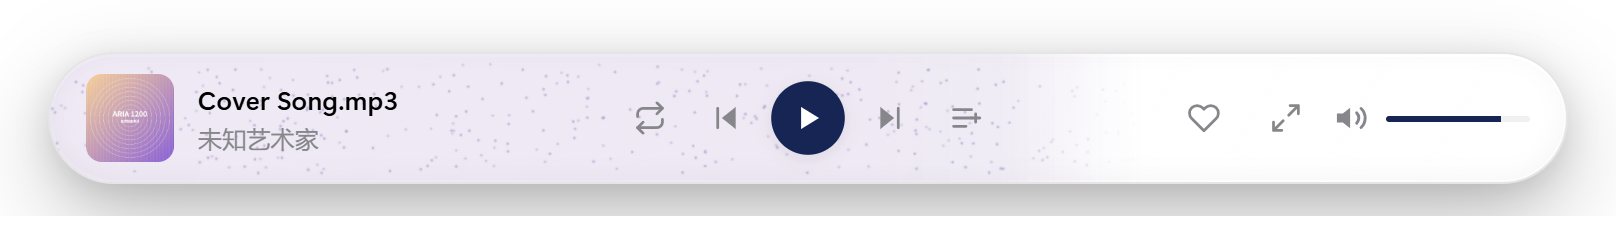
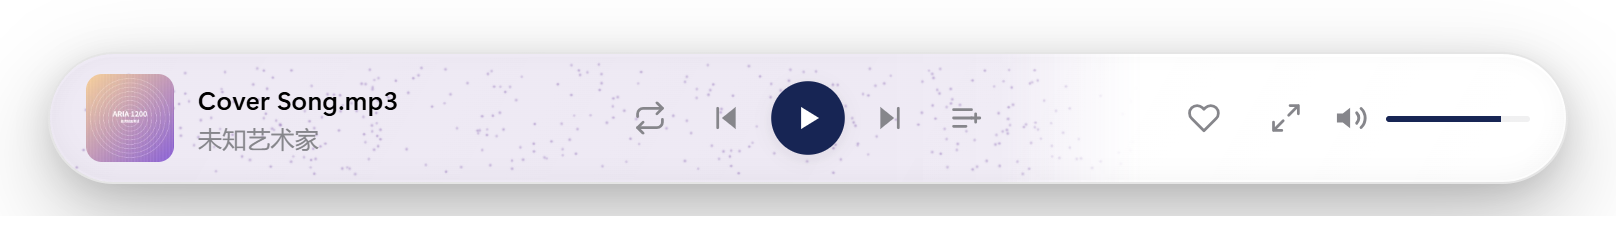
feat: 光尘改定向流动 + 拖拽只在顶端边框生效（加 4px 位移门槛防误触）

diff --git a/src/components/PlayerBar.vue b/src/components/PlayerBar.vue
@@ -279,10 +279,11 @@ const DUST: DustLayer[] = Array.from({ length: DUST_LAYERS }, (_, li) => {
     }
   })
   return {
-    dx: Math.round((dustRand(li * 7 + 3) - 0.5) * 30), // ±15px 漂移
-    dy: Math.round((dustRand(li * 7 + 5) - 0.5) * 10), // ±5px
-    dur: 15000 + Math.round(dustRand(li * 7 + 1) * 12000), // 15~27s
-    del: -Math.round(dustRand(li * 7 + 2) * 15000), // 负延迟错峰
+    // 定向流动：所有层都朝播放头方向（向右）走，快慢不同 → 读起来是「光里的浮尘在流」
+    dx: 42 + Math.round(dustRand(li * 7 + 3) * 30), // 42~72px，单向
+    dy: Math.round((dustRand(li * 7 + 5) - 0.5) * 8), // ±4px 轻微起伏
+    dur: 9000 + Math.round(dustRand(li * 7 + 1) * 9000), // 9~18s 走完一段
+    del: -Math.round(dustRand(li * 7 + 2) * 12000), // 负延迟错峰
     twk: 6000 + Math.round(dustRand(li * 7 + 4) * 6000), // 6~12s 呼吸
     dots,
   }
@@ -329,28 +330,45 @@ function pctFromClientX(cx: number): number {
   return Math.min(1, Math.max(0, (cx - r.left) / r.width))
 }
 
+/** 拖拽门槛：按到顶边只算「预备」，横向移动超过这个距离才真的进入拖拽。
+    之前是「按下即跳到点按处」，去点按钮/封面时蹭到顶边就整条跳进度，很容易误触。 */
+const DRAG_THRESHOLD = 4
+let dragArmed = false
+let dragStartX = 0
+
 function onRingPointerDown(e: PointerEvent) {
   const dur = player.duration || player.current?.durationSec || 0
   if (dur <= 0) return
-  ringDragging.value = true
+  dragArmed = true
+  dragStartX = e.clientX
   // 合成指针（自动化测试）没有活动 pointer id，capture 失败不应阻断 seek
   try {
     progressLineEl.value?.setPointerCapture(e.pointerId)
   } catch {
     /* 忽略 */
   }
-  dragPct.value = pctFromClientX(e.clientX)
-  player.seek(dragPct.value * dur) // 按下即跳到点按处
+  // 按下本身不 seek：等确认是拖拽（见 onRingPointerMove）
 }
 
 function onRingPointerMove(e: PointerEvent) {
-  if (!ringDragging.value) return
+  if (!dragArmed) return
+  if (!ringDragging.value) {
+    // 还没确认拖拽：位移不够就什么都不做（点一下顶边不会改进度）
+    if (Math.abs(e.clientX - dragStartX) < DRAG_THRESHOLD) return
+    ringDragging.value = true
+    dragPct.value = pctFromClientX(e.clientX)
+    const dur = player.duration || player.current?.durationSec || 0
+    if (dur > 0) player.seek(dragPct.value * dur) // 确认拖拽的第一下落位
+    return
+  }
   // 拖动中只推进视觉进度，不反复 seek（频繁跳音频是卡顿感来源）
   dragPct.value = pctFromClientX(e.clientX)
 }
 
 function onRingPointerUp() {
-  if (!ringDragging.value) return
+  if (!dragArmed) return
+  dragArmed = false
+  if (!ringDragging.value) return // 只是点了一下顶边：不动进度
   const dur = player.duration || player.current?.durationSec || 0
   if (dur > 0) player.seek(dragPct.value * dur) // 松手落到最终位置
   ringDragging.value = false
@@ -760,12 +778,15 @@ function onRingPointerUp() {
   background: transparent;
   opacity: var(--dust-opacity);
   will-change: transform, opacity;
+  /* 流动 + 呼吸：流动是单向 linear 循环（层与层速度不同），呼吸负责明暗闪动。
+     单向循环回到起点时是「整层散点集体回跳」，但每颗只有 ~2px 且数量极多，
+     视线抓不住单颗，读起来就是连续流动（这也是不用逐颗 DOM 的代价很小的地方） */
   animation:
-    dust-drift var(--dur) ease-in-out var(--del) infinite alternate,
+    dust-flow var(--dur) linear var(--del) infinite,
     dust-twinkle var(--twk) ease-in-out var(--del) infinite;
 }
 
-@keyframes dust-drift {
+@keyframes dust-flow {
   from {
     transform: translate3d(0, 0, 0);
   }
@@ -801,16 +822,17 @@ function onRingPointerUp() {
   }
 }
 
-/* 拖拽热区：只占顶部 18px —— 旧版是 left/right:0 的整条全宽、高 26px，
-   覆盖胶囊 40% 高度，鼠标从上缘进出极易误触发 seek；压到 18px 后
-   同时避开了封面主体（封面从 11px 起）。本层无内容无底色，只负责命中。 */
+/* 拖拽热区：只在**顶端边框**上（以 1px 边框为中线，上下各 3px）。
+   点按钮、点封面、从条上滑过都不会碰到它；配合「先预备、移动够 4px 才算拖拽」，
+   按下本身也不再跳进度。按下后靠 setPointerCapture 跟手，指针可以离开这条细带。
+   本层无内容无底色，只负责命中。 */
 .capsule-progress {
   position: absolute;
-  top: 0;
+  top: -3px;
   left: 0;
   right: 0;
-  height: 18px;
-  cursor: pointer;
+  height: 9px;
+  cursor: ew-resize;
   touch-action: none;
 }
 

diff --git a/docs/04-开发步骤.md b/docs/04-开发步骤.md
@@ -79,7 +79,7 @@
 - [x] 主题色预设色板换新（**会话 49**）：旧 7 浊色换现代鲜亮 8 色——靛蓝 #5865f2 / 天青 #0284c7 / 翡翠 #0ca678 / 琥珀 #d97706 / 珊瑚 #ef5350 / 玫红 #e64980 / 紫罗兰 #8b5cf6 / 石墨 #64748b（简单亮度全部 0.42~0.52 → accent-text 统一白字且离阈值 ≥0.10）；「默认海军蓝」与自定义取色器保留，布局无需改（CDP 断言点击生效/回默认）
 
 - [x] 九项反馈改造（**会话 45**）：①修歌词页切歌穿模（换带 watcher 加 lyricsOpen 守卫）②修侧栏点击热区只有文字（button 不自动撑满，nav-item 补 width:100%）+ 悬停/选中强调分层 + 长按吞点击修复（仅真实拖拽位移才抑制 click）③修歌单返回动画结尾（网格去 v-show 常驻 + closing 防重入）④排行榜表头移到列表区上方并与列对齐 ⑤添加歌曲重构 900×640 大号二级弹层 ⑥侧栏歌单封面 28→36px/行高 48px ⑦新 AppSwitch 共享开关统一设置页与弹层动效 ⑧歌单去拖拽改自定义排序（自定义顺序/歌名/艺术家/专辑/播放次数/时长，kv 持久化）⑨歌单详情头部对齐专辑详情页（渐变底+呼吸光斑+噪点+176px 封面+统计行）
-- [x] 胶囊播放条进度改「封面色氛围光 + 光尘」（**会话 50**，同日三轮迭代；中途按用户要求试过鸿蒙 7 官网「沉浸光感」的光带/光扫/光晕引力，最终全部拆掉）：进度不再是沿外框的弧线，改为「已播区间被照亮 ＋ 一层极细极密的光尘」——氛围光改用**封面取色**（`palette.extractBrightColors` 新增 `lift` 选项保留原始饱和色；`paletteCache` 改为一次采样同产 `base`+`bright`，并新增 `brightColors()`（并发共享同一 Promise、4s 超时兜底））；光尘 **480 颗**（8 层 × 60 颗），每层只用**一个 1px 圆点 + 一条 `box-shadow`** 画出整层散点，所以「极多又极小」只占 8 个合成图层（点位由下标哈希算出，无随机；每层独立漂移与呼吸）；深色＝白色微光、浅色＝封面色微尘（白点在白玻璃上看不见），单颗直径 ≈ 1px + 2×spread + 2×blur ≈ 2px；收边由 `.pt-field` 的 mask 固定 68px 软收尾（收紧会在末端读成硬边）；**没有光带、没有指针光晕、没有换歌光扫**；暂停即静止且弱一档、`prefers-reduced-motion` 关漂移与呼吸、整体受「封面氛围光」开关管辖（CDP 全绿：8 层/480 颗/旧元素已彻底移除/白尘取色与换歌换色/mask 停靠点/wash/拖拽 seek 精确/暂停与降级/标准条无特效层/控制台 0 报错）
+- [x] 胶囊播放条进度改「封面色氛围光 + 流动光尘」（**会话 50**，同日三轮迭代；中途按用户要求试过鸿蒙 7 官网「沉浸光感」的光带/光扫/光晕引力，最终全部拆掉）：进度不再是沿外框的弧线，改为「已播区间被照亮 ＋ 一层极细极密的流动光尘」——氛围光改用**封面取色**（`palette.extractBrightColors` 新增 `lift` 选项保留原始饱和色；`paletteCache` 改为一次采样同产 `base`+`bright`，并新增 `brightColors()`（并发共享同一 Promise、4s 超时兜底））；光尘 **480 颗**（8 层 × 60 颗），每层只用**一个 1px 圆点 + 一条 `box-shadow`** 画出整层散点，所以「极多又极小」只占 8 个合成图层（点位由下标哈希算出，无随机；每层单向 `linear` 循环 9~18s 走 42~72px 朝播放头流动，层间速度不同读作「流动」，另叠 `opacity` 呼吸）；深色＝白色微光、浅色＝封面色微尘（白点在白玻璃上看不见），单颗直径 ≈ 1px + 2×spread + 2×blur ≈ 2px；收边由 `.pt-field` 的 mask 固定 68px 软收尾；**没有光带、没有指针光晕、没有换歌光扫**；拖拽防误触两层：热区只在**顶端边框细带**（`top:-3px` / `9px`）＋ 必须横向位移 > 4px 才算拖拽（点一下不改进度）；暂停即静止且弱一档、`prefers-reduced-motion` 关流动与呼吸、整体受「封面氛围光」开关管辖（CDP 全绿：8 层/480 颗/旧元素已彻底移除/流动动画生效/顶边点按不跳进度/条中部拖动不触发/白尘取色与换歌换色/mask 停靠点/wash/拖拽 seek 精确/暂停与降级/标准条无特效层/控制台 0 报错）
 
 剩余由用户实测的事项：
 - 真实音乐文件夹选择器流程（自动化环境无法操作系统对话框）

diff --git a/devlog/2026-09-11.md b/devlog/2026-09-11.md
@@ -80,6 +80,17 @@
 - 疏密 = `PlayerBar.vue` 的 `DUST_LAYERS × DUST_PER_LAYER`（现 8 × 60 = 480）。
 - 单颗大小/浓淡/颜色 = `main.css` 两主题的 `--dust-blur` / `--dust-spread` / `--dust-opacity` / `--dust-bloom-color`；氛围光浓度 = `--wash-opacity`；收边软硬 = `--pt-fall`（68px）。
 
+### 3.1 追加两笔：光尘改为定向流动 + 拖拽防误触
+
+**光尘流动**：`dust-drift`（`ease-in-out alternate`，±15px 来回）改成 `dust-flow`（**单向 linear 循环**，9~18s 走 42~72px，方向统一朝播放头），层间速度与相位都不同 → 读起来是「光里的浮尘在往播放头流」，再叠原有的 `opacity` 呼吸。单向循环回跳时整层散点会集体回位，但单颗只有 ~2px、数量极多，视线抓不住单颗，观感仍是连续流动 —— 这是「一层一颗 + box-shadow」方案少有的代价，实测可接受。
+
+**拖拽防误触（两层保护）**：
+
+1. 热区从「顶部 18px 全宽」收成**顶端边框细带**：`top:-3px` / `height:9px`（以 1px 边框为中线、上下各 3px）。点按钮、点封面、从条上滑过都碰不到它。
+2. 去掉「按下即跳到点按处」：按下只记 `dragArmed`，横向位移超过 `DRAG_THRESHOLD = 4px` 才算真拖拽并落位；`setPointerCapture` 之后指针离开细带也照常跟手。光标改 `ew-resize` 提示横向拖拽。
+
+**验证补充**（同脚本）：`dust-flow` 在 `animationName` 里、1.2s 内同层 `transform` 真的变了（`flowing: true`）；顶端边框**点一下**（按下+抬起、不移动）`currentTime` 保持 0.88 不变（`noSeek: true`）；在条中部（y+34）横向拖动**不进入拖拽**（`ring-dragging: false`、`--cp-p` 仍 0.421）；从顶端边框按下再横移能正常拖到 0.72。
+
 ## 遇到的问题
 
 1. **光层盖在文字上**：`.capsule-glow` 若用默认 `z-index:auto`，绝对定位层会画在普通流内容之上。改用 `z-index:-1`——页脚已经是层叠上下文（`position:absolute` + `z-index:6`），负值正好落在「玻璃底 → 光层 → 内容」的正确顺序，且不必给 `.track/.controls/.aux` 加 `position`（避免改动队列面板的定位上下文）。

diff --git a/docs/03-设计规范.md b/docs/03-设计规范.md
@@ -214,6 +214,7 @@
 - 小封面→歌词页大封面飞入（FLIP）：交接帧真实封面**立即不透明**并藏于克隆之下，仅克隆淡出；克隆带 `object-fit:cover` 与真实封面一致，避免两者同时半透明让背景透出（闪一下）或非正方形封面拉伸裁切不一致
 - 图片卡片（专辑/艺术家网格）：当前播放的卡片在封面外圈显示**缓慢旋转的强调色光环**（conic 高光 ring，`--accent`，`cover-spin` 3.2s linear），标题转 `--accent`——播放态状态指示；悬停仅上浮 + 封面轻放大 + 扫光（`transform` 化、`@media (hover:hover) and (pointer:fine)` 门控）；均含 `prefers-reduced-motion` 精简
 - 图片卡片→详情页共享元素过渡（FLIP）：点击封面从**点击点**放大飞向详情头图（`transform-origin` 跟随点击点并补偿 translate，曲线 `cubic-bezier(0.32,0.72,0,1)`，~540ms），落定后内容错峰浮现（`revealed`，40/80/120ms stagger），返回轻淡出；通用 `services/pageTransition.ts` 供专辑/艺术家/歌单复用
+- 胶囊进度的「流动」与「拖拽」两个行为细节（`PlayerBar`）：**流动**＝每层光尘单向 `linear` 循环（9~18s 走 42~72px、方向朝播放头），层间速度不同读作「光里的浮尘在流」，再叠一层 `opacity` 呼吸；单向循环回跳时整层散点集体回位，因为单颗仅 ~2px 且数量极多、视线抓不住单颗，观感仍是连续流动。**拖拽只在顶端边框生效**＝热区 `top:-3px` / `height:9px`（以 1px 边框为中线上下各 3px），点按钮、点封面、从条上滑过都碰不到；按下只记「预备」不 seek，横向位移超过 `DRAG_THRESHOLD = 4px` 才真正进入拖拽并落位，之后 `setPointerCapture` 让指针离开细带也照常跟手——即「点一下顶边不改进度、横向拖一下才 seek」，光标 `ew-resize`
 - 滚动条：8px，滑块 `--scrollbar`，悬停 `--scrollbar-hover`
 
 ### 7.2 歌词页 —— 唯一例外域
